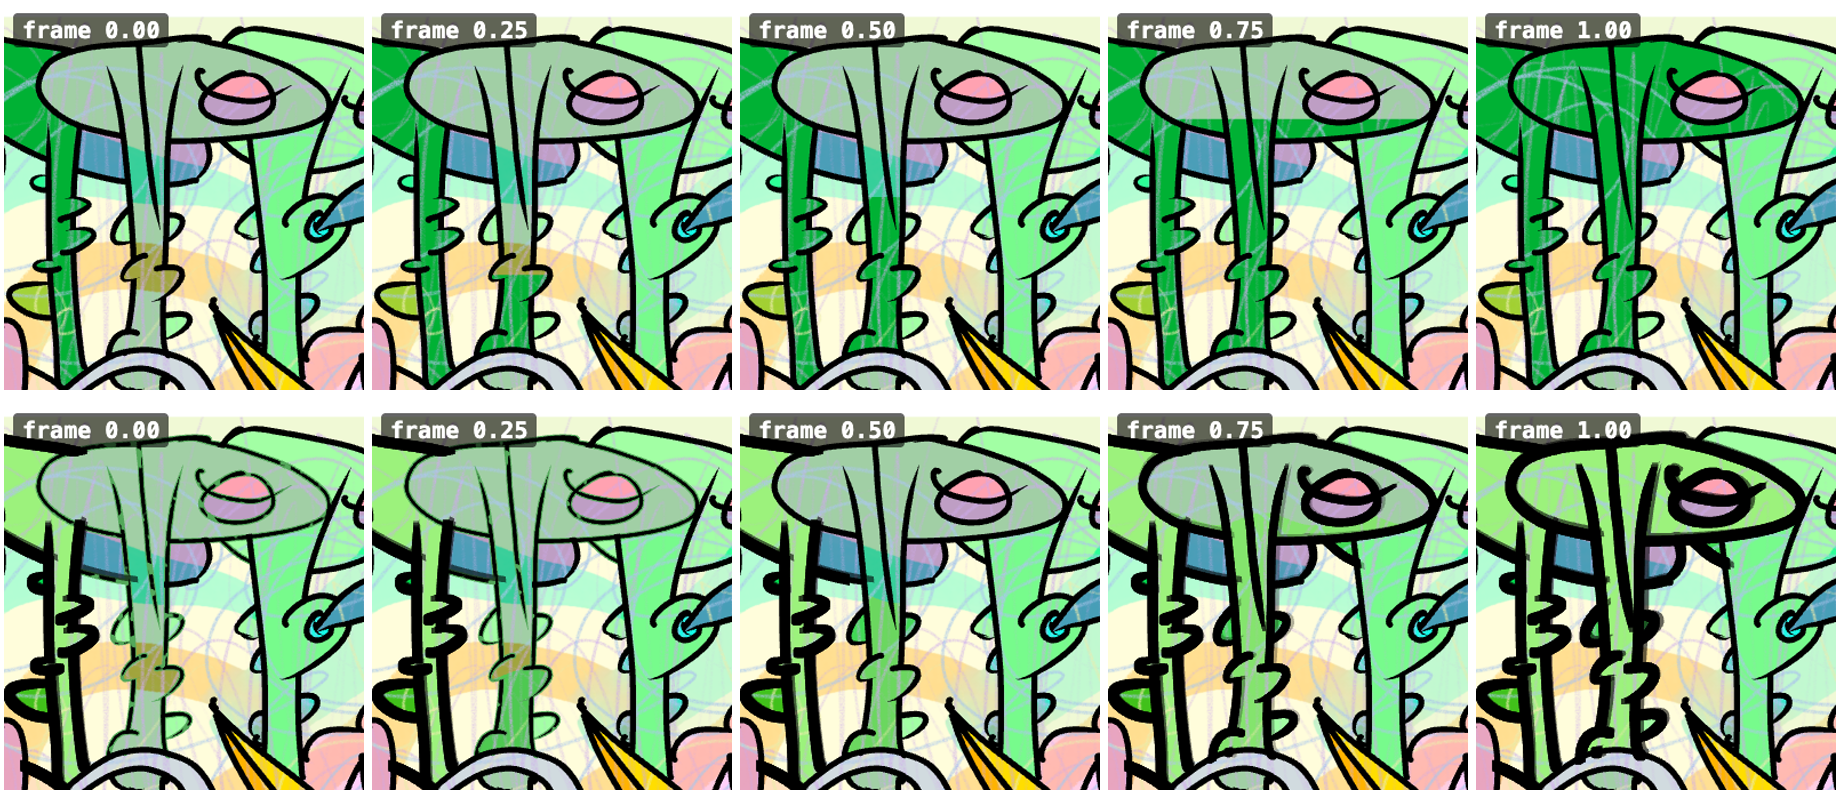
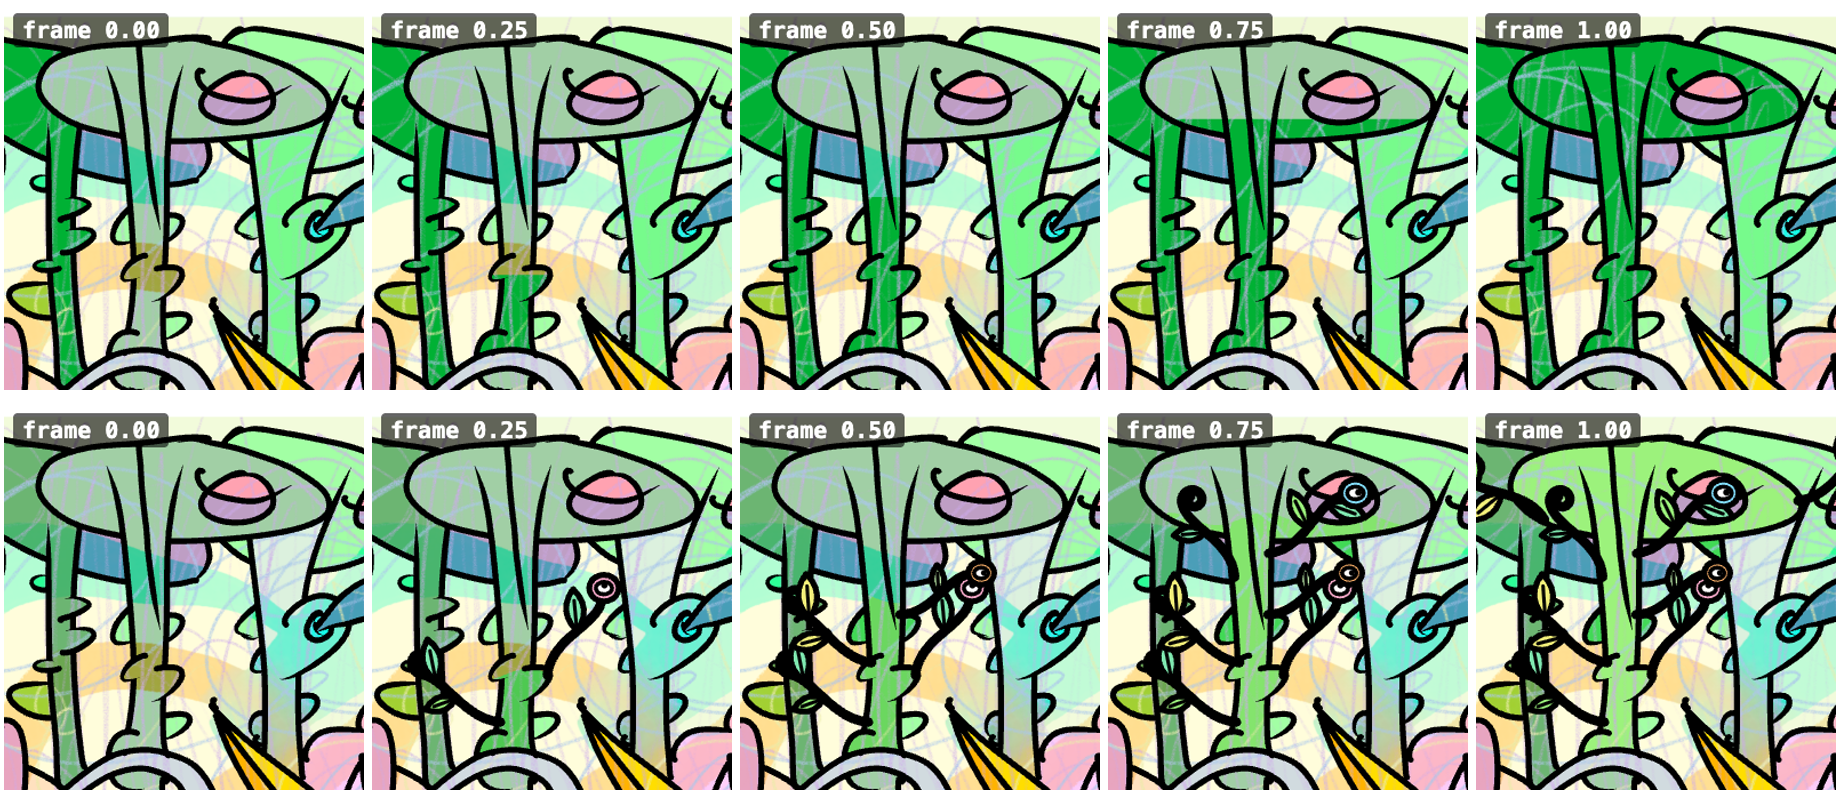
Grow the stalks: a new branch for every drawbar step
A new grow effect adds drawing in the painting's own idiom to an object: curving branches in its
thick black ink, each ending in a spiral tendril or a candy eye-bud, with almond leaves. One branch per
1/count of the timeline, climbing the shape from its base on alternating sides; each draws itself out,
then its leaves unfurl, then its tip appears; seeded, so a frame always shows the same drawing. Both
stalk drawbars grow 8 branches with the rising sap, replacing the thicker-lines version. The frame
renderer now holds every other binding at frame 0 so only the reviewed object changes.

Verified by rendering frames 0 to 1 for both stalks: frame 0 is the painting as drawn, growth adds
branch by branch; comparisons in docs/objects; pnpm build passes.

Changed region(s): [[0.0, 0.5441, 1.0, 0.9975]]

diff --git a/web/src/effects.ts b/web/src/effects.ts
@@ -17,6 +17,11 @@
 //             `turn` turns the revealed colour's hue (degrees by the last frame) as it advances, `toward` moves every
 //             shape's revealed colour to one hue instead, `color` moves it to one exact colour
 //   scribble  pencil loops drawn in, clipped to the shape, in the painting's own scribble style (`count` strokes)
+//   grow      new growth sprouts from the object, drawn in the painting's own idiom: curving branches in its thick
+//             black ink, each ending in a spiral tendril or a little eye-bud, with candy-coloured leaves along them.
+//             One branch per 1/count of the timeline (a drawbar's 8 steps grow 8 branches), climbing the shape from
+//             its base and alternating sides; within its step a branch draws itself out, then its leaves unfurl,
+//             then its tip appears. Seeded per binding, so a frame always shows the same drawing
 //   line      the object's linework from less of itself to more of itself: at u = 0 thinner, lighter and broken by
 //             small gaps like an unfinished sketch; at 0.5 exactly as painted; at 1 bolder, with a second hand-drawn
 //             pass of every stroke just beside the first (thinning, gaps and boldness scale with `amount`)
@@ -103,6 +108,8 @@ interface Track {
     paths: SVGPathElement[]; filterId: string; morph: SVGFEMorphologyElement; mask: SVGFEFuncAElement;
     echo: SVGGElement; under: SVGGElement; written: string;
   };
+  /** grow: the features, each with when it grows and how */
+  growth?: Growth;
   /** swell, lean, spin, blink: the elements moved, and the centre and base point they move about */
   targets: SVGPathElement[];
   centre: [number, number];
@@ -237,6 +244,16 @@ export function mountEffects(art: Art, host: WebSynthlandHost, objects: Map<stri
         case 'boil':
           tr.ink = obj.ink.filter((s) => art.ink.has(s));
           break;
+        case 'grow': {
+          const host = ids.map((id) => art.fills.get(id)).find((p): p is SVGPathElement => !!p);
+          if (!host) break;
+          const g = document.createElementNS(SVG, 'g');
+          g.style.pointerEvents = 'none';
+          stack.ink.after(g);
+          L.added.push(g);
+          tr.growth = buildGrowth(g, host, obj.bbox, spec.count ?? GROW_COUNT, Math.abs(spec.amount) || 1, rand);
+          break;
+        }
         case 'line': {
           const paths = obj.ink.map((s) => art.ink.get(s)).filter((p): p is SVGPathElement => !!p);
           if (!paths.length) break;
@@ -503,6 +520,26 @@ export function mountEffects(art: Art, host: WebSynthlandHost, objects: Map<stri
       transformed.delete(el);
     }
 
+    // Grow: each feature at its own progress through its window of the timeline.
+    for (const L of live) for (const tr of L.tracks) {
+      if (!tr.growth) continue;
+      const t = local(tr, L.shown);
+      for (const f of tr.growth.features) {
+        const p = Math.max(0, Math.min(1, (t - f.from) / (f.to - f.from)));
+        const key = p.toFixed(3);
+        if (key === f.written) continue;
+        f.written = key;
+        if (f.kind === 'draw') {
+          f.el.setAttribute('stroke-dashoffset', (1 - p).toFixed(4));
+          f.el.style.visibility = p > 0 ? 'visible' : 'hidden';
+        } else {
+          const s = p <= 0 ? 0 : popEase(p);
+          f.el.style.visibility = p > 0 ? 'visible' : 'hidden';
+          f.el.setAttribute('transform', `translate(${f.at[0].toFixed(1)} ${f.at[1].toFixed(1)}) scale(${s.toFixed(4)}) translate(${(-f.at[0]).toFixed(1)} ${(-f.at[1]).toFixed(1)})`);
+        }
+      }
+    }
+
     // Line: one filter per track on its object's strokes; below the middle thinner and gappier, above it bolder with
     // the second pass showing. At exactly 0.5 the strokes are left as painted (no filter at all).
     const filtered = new Map<SVGPathElement, string>();
@@ -718,6 +755,161 @@ export function mountEffects(art: Art, host: WebSynthlandHost, objects: Map<stri
       if (raf) cancelAnimationFrame(raf);
     },
   };
+}
+
+// ---- grow ----------------------------------------------------------------------------------------------------------
+
+const GROW_COUNT = 8;
+/** Line weights in canvas px, close to the painting's own ink (its strokes are 14 to 40 px wide). */
+const GROW_STEM_PX = 26, GROW_EDGE_PX = 16;
+const LEAF_COLOURS = ['#9cf27c', '#c6f58a', '#7fe8b0', '#f2ef7a', '#b4e0a2'];
+const BUD_COLOURS = ['#f2a6c6', '#c4a3f0', '#ffb36b', '#7fd8f5', '#ff8fa3'];
+
+interface GrowFeature {
+  kind: 'draw' | 'pop';
+  el: SVGElement;
+  /** the window of the effect's timeline (0..1) it grows over */
+  from: number;
+  to: number;
+  /** pop: the point it grows out of */
+  at: [number, number];
+  written: string;
+}
+interface Growth { features: GrowFeature[] }
+
+/** A pop that overshoots a little and settles, like something unfurling. */
+function popEase(p: number): number {
+  const c = 1.6;
+  const q = p - 1;
+  return 1 + (c + 1) * q * q * q + c * q * q;
+}
+
+type Pt = [number, number];
+const add = (a: Pt, b: Pt): Pt => [a[0] + b[0], a[1] + b[1]];
+const mul = (a: Pt, k: number): Pt => [a[0] * k, a[1] * k];
+const rot = (a: Pt, deg: number): Pt => {
+  const r = (deg * Math.PI) / 180, c = Math.cos(r), s = Math.sin(r);
+  return [a[0] * c - a[1] * s, a[0] * s + a[1] * c];
+};
+const norm = (a: Pt): Pt => { const l = Math.hypot(a[0], a[1]) || 1; return [a[0] / l, a[1] / l]; };
+const poly = (pts: Pt[]): string => pts.map((p, i) => `${i ? 'L' : 'M'}${p[0].toFixed(1)} ${p[1].toFixed(1)}`).join('');
+
+/**
+ * Lay out the growth on a host shape: `count` branches, climbing from its base, alternating sides. Each branch
+ * starts on the shape's edge at its height, curves outward and upward, and ends in a spiral tendril or an eye-bud,
+ * with one or two leaves along it. Everything is drawn into `g` hidden; the paint step reveals it frame by frame.
+ */
+function buildGrowth(g: SVGGElement, host: SVGPathElement, box: [number, number, number, number], count: number, size: number, rand: () => number): Growth {
+  const [bx, by, bw, bh] = box;
+  // The host's outline, sampled, to find its left and right edges at any height.
+  const total = host.getTotalLength();
+  const outline: Pt[] = [];
+  for (let i = 0; i < 600; i++) { const q = host.getPointAtLength((total * i) / 600); outline.push([q.x, q.y]); }
+  const edge = (y: number, side: -1 | 1): Pt | null => {
+    const band = outline.filter((p) => Math.abs(p[1] - y) < bh * 0.03);
+    if (!band.length) return null;
+    return band.reduce((best, p) => (side < 0 ? (p[0] < best[0] ? p : best) : (p[0] > best[0] ? p : best)));
+  };
+  const features: GrowFeature[] = [];
+  const mk = <K extends keyof SVGElementTagNameMap>(tag: K, attrs: Record<string, string>): SVGElementTagNameMap[K] => {
+    const e = document.createElementNS(SVG, tag);
+    for (const [k, v] of Object.entries(attrs)) e.setAttribute(k, v);
+    e.style.visibility = 'hidden';
+    g.append(e);
+    return e;
+  };
+  // Branch length follows the shape's height (a tall stalk grows long branches), capped by its size overall.
+  const scale = Math.min(bh, Math.max(bw, bh) * 0.9) * size;
+  for (let k = 0; k < count; k++) {
+    const from = k / count, to = (k + 1) / count;
+    const win = (a: number, b: number): [number, number] => [from + (to - from) * a, from + (to - from) * b];
+    const side: -1 | 1 = k % 2 === 0 ? -1 : 1;
+    const y = by + bh * (0.92 - 0.8 * ((k + 0.5) / count)) + (rand() - 0.5) * bh * 0.04;
+    const A = edge(y, side);
+    if (!A) continue;
+    // Outward, then turned upward 25..55 degrees, with a bend one way or the other.
+    const lean = 25 + rand() * 30;
+    const dir = norm(rot([side, 0], side < 0 ? lean : -lean));
+    const nrm: Pt = [-dir[1], dir[0]];
+    const len = scale * (0.24 + rand() * 0.14);
+    const bend = (rand() < 0.5 ? -1 : 1) * len * (0.12 + rand() * 0.1);
+    const P1 = add(add(A, mul(dir, len * 0.35)), mul(nrm, bend));
+    const P2 = add(add(A, mul(dir, len * 0.75)), mul(nrm, -bend * 0.6));
+    const P3 = add(A, mul(dir, len));
+    const stem: Pt[] = [];
+    for (let i = 0; i <= 28; i++) {
+      const t = i / 28, u = 1 - t;
+      stem.push([
+        u * u * u * A[0] + 3 * u * u * t * P1[0] + 3 * u * t * t * P2[0] + t * t * t * P3[0],
+        u * u * u * A[1] + 3 * u * u * t * P1[1] + 3 * u * t * t * P2[1] + t * t * t * P3[1],
+      ]);
+    }
+    const tipDir = norm([P3[0] - P2[0], P3[1] - P2[1]]);
+    const curl = k % 2 === 0;
+    if (curl) {
+      // A spiral tendril continuing the stem: just over a turn, tightening, curling upward.
+      const r0 = len * 0.13, turn = side < 0 ? 1 : -1;
+      let a0 = Math.atan2(tipDir[1], tipDir[0]) - turn * Math.PI / 2;
+      const centre = add(P3, mul(rot(tipDir, turn * 90), r0));
+      for (let i = 1; i <= 26; i++) {
+        const t = i / 26, r = r0 * (1 - 0.65 * t), a = a0 + turn * t * Math.PI * 2.3;
+        stem.push([centre[0] + Math.cos(a) * r, centre[1] + Math.sin(a) * r]);
+      }
+      a0 = 0;
+    }
+    const branch = mk('path', { d: poly(stem), fill: 'none', stroke: '#000', 'stroke-width': String(GROW_STEM_PX), 'stroke-linecap': 'round', 'stroke-linejoin': 'round', pathLength: '1', 'stroke-dasharray': '1 1', 'stroke-dashoffset': '1' });
+    const [b0, b1] = win(0, curl ? 0.75 : 0.6);
+    features.push({ kind: 'draw', el: branch, from: b0, to: b1, at: A, written: '' });
+
+    // One or two leaves along the stem, on alternating sides of it.
+    const leaves = 1 + (rand() < 0.6 ? 1 : 0);
+    for (let j = 0; j < leaves; j++) {
+      const s = 0.45 + j * 0.3 + rand() * 0.08;
+      const qi = Math.min(27, Math.round(s * 28));
+      const Q = stem[qi]!, T = norm([stem[qi + 1]![0] - Q[0], stem[qi + 1]![1] - Q[1]]);
+      const D = norm(rot(T, (j % 2 ? 1 : -1) * (45 + rand() * 20)));
+      const N: Pt = [-D[1], D[0]];
+      const l = len * (0.34 + rand() * 0.14), w = l * 0.42;
+      const tip = add(Q, mul(D, l));
+      const c1 = add(add(Q, mul(D, l * 0.5)), mul(N, w)), c2 = add(add(Q, mul(D, l * 0.5)), mul(N, -w));
+      const leaf = mk('g', {});
+      const body = document.createElementNS(SVG, 'path');
+      body.setAttribute('d', `M${Q[0].toFixed(1)} ${Q[1].toFixed(1)}Q${c1[0].toFixed(1)} ${c1[1].toFixed(1)} ${tip[0].toFixed(1)} ${tip[1].toFixed(1)}Q${c2[0].toFixed(1)} ${c2[1].toFixed(1)} ${Q[0].toFixed(1)} ${Q[1].toFixed(1)}Z`);
+      body.setAttribute('fill', LEAF_COLOURS[Math.floor(rand() * LEAF_COLOURS.length)]!);
+      body.setAttribute('stroke', '#000'); body.setAttribute('stroke-width', String(GROW_EDGE_PX)); body.setAttribute('stroke-linejoin', 'round');
+      const rib = document.createElementNS(SVG, 'path');
+      const ribEnd = add(Q, mul(D, l * 0.72));
+      rib.setAttribute('d', `M${Q[0].toFixed(1)} ${Q[1].toFixed(1)}L${ribEnd[0].toFixed(1)} ${ribEnd[1].toFixed(1)}`);
+      rib.setAttribute('stroke', '#000'); rib.setAttribute('stroke-width', String(GROW_EDGE_PX * 0.6)); rib.setAttribute('stroke-linecap', 'round');
+      leaf.append(body, rib);
+      const [l0, l1] = win(0.35 + j * 0.18, 0.75 + j * 0.12);
+      features.push({ kind: 'pop', el: leaf, from: l0, to: Math.min(to, l1), at: Q, written: '' });
+    }
+
+    if (!curl) {
+      // An eye-bud at the tip: a candy bulb with an eye, like the painting's many eyes in things.
+      const r = len * 0.16;
+      const C = add(P3, mul(tipDir, r * 0.85));
+      const bud = mk('g', {});
+      const bulb = document.createElementNS(SVG, 'ellipse');
+      bulb.setAttribute('cx', C[0].toFixed(1)); bulb.setAttribute('cy', C[1].toFixed(1));
+      bulb.setAttribute('rx', r.toFixed(1)); bulb.setAttribute('ry', (r * 0.9).toFixed(1));
+      bulb.setAttribute('fill', BUD_COLOURS[Math.floor(rand() * BUD_COLOURS.length)]!);
+      bulb.setAttribute('stroke', '#000'); bulb.setAttribute('stroke-width', String(GROW_EDGE_PX));
+      const white = document.createElementNS(SVG, 'ellipse');
+      white.setAttribute('cx', C[0].toFixed(1)); white.setAttribute('cy', C[1].toFixed(1));
+      white.setAttribute('rx', (r * 0.55).toFixed(1)); white.setAttribute('ry', (r * 0.42).toFixed(1));
+      white.setAttribute('fill', '#fff'); white.setAttribute('stroke', '#000'); white.setAttribute('stroke-width', String(GROW_EDGE_PX * 0.7));
+      const look = mul(tipDir, r * 0.2);
+      const pupil = document.createElementNS(SVG, 'circle');
+      pupil.setAttribute('cx', (C[0] + look[0]).toFixed(1)); pupil.setAttribute('cy', (C[1] + look[1]).toFixed(1));
+      pupil.setAttribute('r', (r * 0.22).toFixed(1)); pupil.setAttribute('fill', '#000');
+      bud.append(bulb, white, pupil);
+      const [e0, e1] = win(0.6, 1);
+      features.push({ kind: 'pop', el: bud, from: e0, to: e1, at: P3, written: '' });
+    }
+  }
+  return { features };
 }
 
 /** The shorter turn (degrees, -180..180) from hue a to hue b. */

diff --git a/web/src/mapping.ts b/web/src/mapping.ts
@@ -31,8 +31,8 @@ export interface RegionEntry extends Control {
   region: RegionShape;
 }
 
-export type EffectKind = 'glow' | 'hue' | 'fill' | 'scribble' | 'line' | 'boil' | 'swell' | 'lean' | 'spin' | 'blink';
-export const EFFECTS: readonly EffectKind[] = ['glow', 'hue', 'fill', 'scribble', 'line', 'boil', 'swell', 'lean', 'spin', 'blink'];
+export type EffectKind = 'glow' | 'hue' | 'fill' | 'scribble' | 'grow' | 'line' | 'boil' | 'swell' | 'lean' | 'spin' | 'blink';
+export const EFFECTS: readonly EffectKind[] = ['glow', 'hue', 'fill', 'scribble', 'grow', 'line', 'boil', 'swell', 'lean', 'spin', 'blink'];
 /** Older names still read: pulse and wobble were free-running; as frames of the timeline they are swell and lean. */
 const EFFECT_ALIASES: Record<string, EffectKind> = { pulse: 'swell', wobble: 'lean' };
 export type FillFrom = 'bottom' | 'top' | 'left' | 'right';
@@ -61,7 +61,7 @@ export interface EffectSpec {
   /** fill: the revealed colour at the last frame (hex); it moves there from the shape's glowing colour as the fill
    * advances. Overrides `turn` and `toward`. */
   color?: string;
-  /** scribble: how many pencil strokes at full value (default 14). */
+  /** scribble: how many pencil strokes at full value (default 14). grow: how many branches (default 8). */
   count?: number;
 }
 

diff --git a/PLAN.md b/PLAN.md
@@ -150,6 +150,7 @@ span (`web/src/effects.ts`):
 | `hue` | fills | the hue turned 60 degrees (negative turns the other way) | |
 | `fill` | fills | a vivid copy of the object fully revealed from an edge, one level across all its shapes, like a drawbar pulled out | `from`: bottom, top, left, right; `edge`: straight or wave (a hand-drawn surface that rolls as it moves); `turn` (degrees the colour turns as it advances), `toward` (a hue, OKLCH degrees, every shape's colour moves to) or `color` (an exact colour it moves to) |
 | `scribble` | fills | pencil loops in the painting's own scribble style, all drawn in, clipped to the shape | `count` (default 14) |
+| `grow` | object | new growth sprouts in the painting's idiom: curving branches in its thick black ink, each ending in a spiral tendril or an eye-bud, with candy-coloured leaves; one branch per 1/count of the timeline, climbing the shape from its base on alternating sides; each draws itself out, then its leaves unfurl, then its tip appears; seeded, so a frame always shows the same drawing | `count` (default 8), `parts` (the shape it grows from) |
 | `line` | ink | the linework from less of itself to more of itself: at the first frame thinner (4 px eroded from each side) and broken by gaps like an unfinished sketch, the object's own colour showing where lines thin; exactly as painted at the middle; at the last frame bolder (5 px) with a second hand-drawn pass of every stroke beside the first | |
 | `boil` | ink | the outline redrawn, its lines bent up to 12 canvas px; a new drawing every 1/12 of the way, so dragging makes them writhe and holding keeps them still | |
 | `swell` | object | 8% larger about its centre (negative shrinks) | |
@@ -180,8 +181,10 @@ surface climbs from the pyramid's base to its apex as Drive goes 0 to 1, both fa
 rises; the faces above the level warm from 20%; the outline starts to boil past 55%, easing in.
 **stalk-drawbar-16 and stalk-drawbar-513**, sap rising: a green sap with a wavy surface climbs each stalk with the
 drawbar, turning a luminous light green (#9cf27c) towards the top; each bud on the stalk (roles `bud-1`..) swells
-24% and glows just as the sap reaches its height; and the linework goes from thin broken sketch lines with the
-drawbar in, through the lines as painted at half way, to bold double-inked lines with it fully out (`line`).
+24% and glows just as the sap reaches its height; and the stalk grows (`grow`): one new branch per drawbar step,
+climbing from the base on alternating sides, each drawing itself out, unfurling leaves and ending in a spiral
+tendril or an eye-bud, so a fully pulled drawbar is a much busier, leafier plant. (A `line` version that thickened
+the strokes was tried first and replaced: Matt wanted the drawing itself to grow.)
 
 Fill ids (`f001`..) and ink ids (`i0001`..) come from the extractor and are stable as long as the PSD's drawing does
 not change; `?debug`'s parts mode (backquote) shows the id of the shape under the pointer. The parts table also

diff --git a/docs/mapping-proposal.md b/docs/mapping-proposal.md
@@ -8,8 +8,8 @@ the object shows the value but touching it does nothing (routing, tuning and lev
 | parameter | name | object | gesture | effects | lock |
 | --- | --- | --- | --- | --- | --- |
 | `amp.drive` | Drive | golden-pyramid | drag-x | fill 0.6 from bottom edge wave toward 65, glow 0.5 span [0.2, 1], boil 1.3 span [0.55, 1] ease in | locked |
-| `upper.db1` | Upper 16' | stalk-left | drag-y | fill 0.5 parts body from bottom edge wave color #9cf27c, swell 3 parts bud-1 span [0.21, 0.33] ease out, glow 0.8 parts bud-1 span [0.21, 0.33], swell 3 parts bud-2 span [0.55, 0.67] ease out, glow 0.8 parts bud-2 span [0.55, 0.67], line 1 |  |
-| `upper.db2` | Upper 5 1/3' | stalk-right | drag-y | fill 0.5 parts body from bottom edge wave color #9cf27c, swell 3 parts bud-1 span [0.34, 0.46] ease out, glow 0.8 parts bud-1 span [0.34, 0.46], swell 3 parts bud-2 span [0.37, 0.49] ease out, glow 0.8 parts bud-2 span [0.37, 0.49], swell 3 parts bud-3 span [0.61, 0.73] ease out, glow 0.8 parts bud-3 span [0.61, 0.73], line 1 |  |
+| `upper.db1` | Upper 16' | stalk-left | drag-y | fill 0.5 parts body from bottom edge wave color #9cf27c, swell 3 parts bud-1 span [0.21, 0.33] ease out, glow 0.8 parts bud-1 span [0.21, 0.33], swell 3 parts bud-2 span [0.55, 0.67] ease out, glow 0.8 parts bud-2 span [0.55, 0.67], grow 1 parts body count 8 |  |
+| `upper.db2` | Upper 5 1/3' | stalk-right | drag-y | fill 0.5 parts body from bottom edge wave color #9cf27c, swell 3 parts bud-1 span [0.34, 0.46] ease out, glow 0.8 parts bud-1 span [0.34, 0.46], swell 3 parts bud-2 span [0.37, 0.49] ease out, glow 0.8 parts bud-2 span [0.37, 0.49], swell 3 parts bud-3 span [0.61, 0.73] ease out, glow 0.8 parts bud-3 span [0.61, 0.73], grow 1 parts body count 8 |  |
 | `leslie.speed` | Rotor Speed | spiral-curl | tap | spin 1 |  |
 | `amp.expression` | Expression | pyramid-worm | drag-y | swell 1, glow 0.4 |  |
 | `vib.upper` | Vibrato Upper | stream | tap | lean 1, hue 0.3 parts water |  |

diff --git a/README.md b/README.md
@@ -49,7 +49,7 @@ Open the printed URL (http://localhost:5173). Click or press a key to start audi
 Other scripts: `pnpm build` (typecheck + production build into `dist/`), `pnpm preview`, `pnpm typecheck`,
 `pnpm presets` (rebuild the preset index), `pnpm sync` (re-copy from SynthLand, see [UPSTREAM.md](UPSTREAM.md)),
 `node scripts/object_frames.mjs <binding-id> [url]` (render one object's animation, first frame to last, into
-`docs/objects/<binding-id>/`), `pnpm demo [url]` (record the demo video: needs the dev server running, ffmpeg and Google Chrome; it drives a
+`docs/objects/<binding-id>/`, with every other binding held at its first frame; `--context` leaves them as they are), `pnpm demo [url]` (record the demo video: needs the dev server running, ffmpeg and Google Chrome; it drives a
 headless Chrome with a throwaway profile and writes `docs/demo/`).
 
 On phones (small touch screens) the page uses half-size raster layers and a lite mode (redrawn at most 20 times
